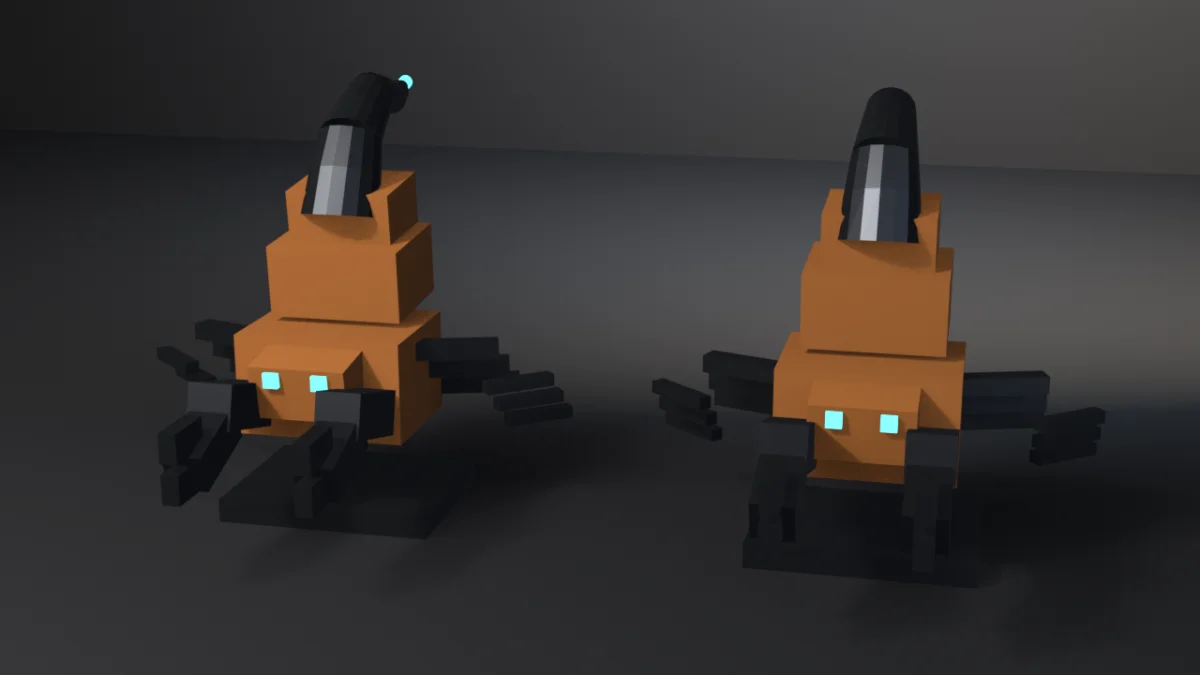
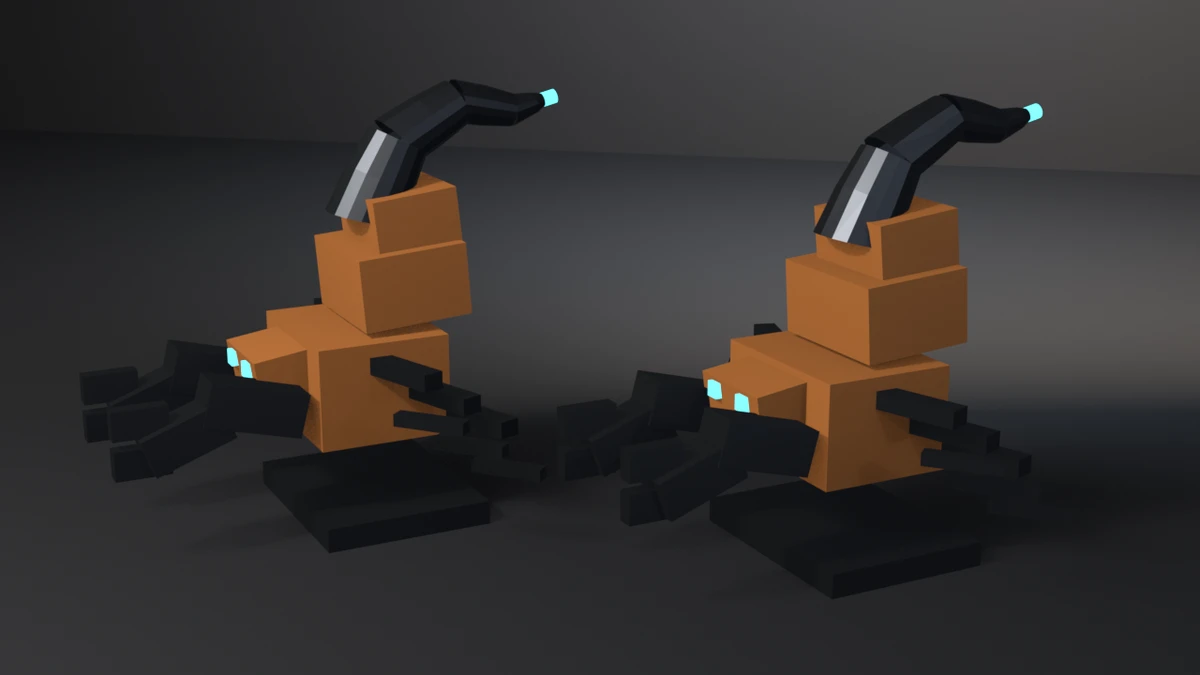
fix(examples): turn the gltf-skin-roundtrip scorpions three-quarters
The tail curls in each rig's Y-Z plane, and the camera looked at both
scorpions head-on, so the curl was seen end-on and the tail stood straight
up like a chimney: a boxy robot, not a scorpion. Both armatures are now
yawed -50 deg about their own origins, composed into the world matrix
because the glTF importer leaves its armature in quaternion mode, and set
1.0 m either side of centre. Render path only. Exit codes unchanged on
4.5.11, 5.1.2 and 5.2.1 (default 0, --no-skins 5, --output 0) and every
measured line matches the baseline. Shared gallery index rides here.

diff --git a/docs/gallery/gltf-skin-roundtrip/index.html b/docs/gallery/gltf-skin-roundtrip/index.html
@@ -284,7 +284,7 @@
 <ul><li><strong>The skeleton survives.</strong> <code>skins[0].joints</code> names every bone; the re-imported armature carries the same 7 bones, the same parent chain, and rest matrices within 2.4e-07 — the +Y-up conversion applies to bone nodes exactly as it does to meshes (their translations convert, no rotation is written).</li><li><strong>The weights survive.</strong> Every primitive carries JOINTS_0/WEIGHTS_0; per-vertex weights on disk sum to 1 (err 3.0e-08); the re-imported vertex groups match the authored groups <strong>bit-exactly</strong> (w_err 0.0), compared as straddle-safe position keys, the same protocol as the crate example.</li><li><strong>The deformation survives.</strong> Posed identically, the re-imported rig&#x27;s evaluated mesh matches the original&#x27;s within 4.8e-07 — linear blend skinning through the file format. The comparison is by rest-position key, never sorted multisets: the exporter welds duplicate loops (32 here), so cardinalities differ and a naive sorted zip mispairs vertices (a phantom 2.29 &quot;deviation&quot; measured and fixed during authoring).</li><li><strong>The mesh must be parented to the armature.</strong> The exporter warns &quot;Armature must be the parent of skinned mesh&quot; and picks an armature by name otherwise — with two rigs in the file it can bind the wrong one.</li></ul>
 <p><strong>What each check catches on failure:</strong> exporting with <code>export_skins=False</code> (exit 5 — no skin on disk), stripping the weights (exit 4 — no vertex groups), and posing the re-imported rig differently (exit 19 — deformation deviates 0.90).</p>
 <p><strong>Version witness:</strong> the skins pipeline is stable between Blender 4.5 LTS and 5.1 — the exporter/importer RNA is byte-identical (probed with <code>gltf-export-roundtrip</code>), and every measured value matches to the digit on 4.5.11 and 5.1.2.</p>
-<p>The render stages the authored scorpion beside the actual re-imported one — same curl, same glowing stinger — proof the skin rode the format through.</p>
+<p>The render stages the authored scorpion beside the actual re-imported one — same curl, same glowing stinger — proof the skin rode the format through. Both rigs are turned three-quarters to the camera. The tail curls in the rig&#x27;s own Y-Z plane, so a head-on view saw the curl end-on: the tail stood straight up behind the body like a chimney. The yaw is composed into each armature&#x27;s world matrix, because the glTF importer leaves its armature in quaternion mode, where <code>rotation_euler</code> does nothing.</p>
 <h2>Run</h2>
 <pre><code># Cheap correctness check (no render) — the CI check:
 blender --background --python gltf_skin_roundtrip.py --
@@ -360,6 +360,10 @@ SUM_TOL = <span class="n">3e-4</span>                  <span class="c"># disk we
 REST_TOL = <span class="n">1e-5</span>                 <span class="c"># rest-matrix round-trip tolerance</span>
 LBS_TOL = <span class="n">5e-4</span>
 KEY_DIGITS = <span class="n">4</span>
+<span class="c"># render staging only (not part of the check): each rig&#x27;s X offset and its</span>
+<span class="c"># yaw, so the tail&#x27;s curl (in the rig&#x27;s Y-Z plane) is seen in profile</span>
+STILL_X = <span class="n">1.0</span>
+STILL_YAW = -<span class="n">50.0</span>
 
 EXPORT_KWARGS = dict(
     export_format=<span class="s">&#x27;GLTF_SEPARATE&#x27;</span>,
@@ -897,9 +901,20 @@ EXPORT_KWARGS = dict(
             authored.data.materials.append(m)
         assign_weights(authored, part_of2)
         authored_arm = build_rig(authored)
-        <span class="c"># move the ARMATURES; the skinned meshes follow as children</span>
-        authored_arm.location.x = -<span class="n">1.1</span>
-        roundtrip_arm.location.x = <span class="n">1.1</span>
+        <span class="c"># move the ARMATURES; the skinned meshes follow as children. Each is</span>
+        <span class="c"># turned three-quarters to the camera: seen head-on, the tail stood</span>
+        <span class="c"># straight up behind the body like a chimney and the scorpion read</span>
+        <span class="c"># as a boxy robot; side-on, the arch of the tail over the back and</span>
+        <span class="c"># the legs down its flanks carry the read.</span>
+        <span class="c"># The yaw is composed into the world matrix about the rig&#x27;s own</span>
+        <span class="c"># origin: the glTF importer leaves its armature in quaternion mode,</span>
+        <span class="c"># where rotation_euler does nothing.</span>
+        <span class="k">for</span> arm, x <span class="k">in</span> ((authored_arm, -STILL_X), (roundtrip_arm, STILL_X)):
+            arm.location.x = x
+            bpy.context.view_layer.update()
+            at = mathutils.Matrix.Translation(arm.matrix_world.translation)
+            arm.matrix_world = (at @ mathutils.Matrix.Rotation(
+                math.radians(STILL_YAW), <span class="n">4</span>, <span class="s">&#x27;Z&#x27;</span>) @ at.inverted() @ arm.matrix_world)
         <span class="k">if</span> <span class="k">not</span> render_still(authored, os.path.abspath(args.output), args.engine):
             print(<span class="s">&quot;ERROR: render produced no file&quot;</span>, file=sys.stderr)
             <span class="k">return</span> <span class="n">20</span>

diff --git a/docs/gallery/index.html b/docs/gallery/index.html
@@ -1036,12 +1036,12 @@
       </article>
       <article class="card" data-tags="mesh export showcase">
         <a class="card-media" href="wheelbarrow/" tabindex="-1" aria-hidden="true">
-          <img src="assets/wheelbarrow-hero.webp" alt="A wooden wheelbarrow whose tray walls are stacked boards held by iron straps, with a spoked front wheel and two long handles." loading="lazy" decoding="async" />
+          <img src="assets/wheelbarrow-hero.webp" alt="A wooden wheelbarrow with a flared tray of stacked boards held by iron straps, its front raked out over a spoked wheel, and two long shafts running from the handles under the tray to the axle." loading="lazy" decoding="async" />
         </a>
         <div class="card-body">
           <h2><a href="wheelbarrow/">wheelbarrow</a></h2>
           <p class="teaches">A procedural wooden wheelbarrow through UVs, bake, LOD, collider, and Unity glTF, asserting recomputed budgets rather than an API contract.</p>
-          <p class="witnesses"><span class="tag">witnesses</span> Recomputed: 2536 tris, two materials with 1157 wood and 190 metal faces, UVs in 0..1 with zero AABB overlap, outer AABB 1.556×0.630×0.572 m, zmin 0, hygiene 0, wall-floor seat 12 mm, spoke clearance 40 mm, two boards per side and front wall with 2 mm seams, LOD ratios in band (5.2 COLLAPSE leaner on LOD2), convex collider 90 tris, non-empty glTF. --skip-decimate exits 9 on LOD1; --stray-vert exits 15 on hygiene; --lift-z / --short-legs exit 16 on grounded; --fat-spokes / --float-walls / --wide-seams exit 17 on joint fit; --pipe-rim exits 18 on tread aspect.</p>
+          <p class="witnesses"><span class="tag">witnesses</span> Recomputed: 2440 tris, two materials with 1085 wood and 214 metal faces, UVs in 0..1 with zero AABB overlap, outer AABB 1.563x0.594x0.577 m, zmin 0, hygiene 0, both shafts one timber from grip to axle, tray flared 15 deg and raked 30 deg, wall-floor seat 8 mm, spoke clearance 52 mm, two boards per side and front wall with 2 mm seams measured in the wall&#x27;s plane, LOD ratios in band (5.2 COLLAPSE leaner on LOD2), convex collider 80 tris, non-empty glTF. --skip-decimate exits 9 on LOD1; --stray-vert exits 15 on hygiene; --lift-z / --short-legs exit 16 on grounded; --fat-spokes / --float-walls / --wide-seams exit 17 on joint fit; --pipe-rim exits 18 on tread aspect; --split-shafts exits 20 on shaft runs; --box-tray exits 21 on tray flare.</p>
           <a class="card-link" href="wheelbarrow/">View showcase piece<span class="sr-only"> wheelbarrow</span> <span aria-hidden="true">&rarr;</span></a>
         </div>
       </article>

diff --git a/examples/gltf-skin-roundtrip/gltf_skin_roundtrip.py b/examples/gltf-skin-roundtrip/gltf_skin_roundtrip.py
@@ -52,6 +52,10 @@ SUM_TOL = 3e-4                  # disk weight-sum tolerance
 REST_TOL = 1e-5                 # rest-matrix round-trip tolerance
 LBS_TOL = 5e-4
 KEY_DIGITS = 4
+# render staging only (not part of the check): each rig's X offset and its
+# yaw, so the tail's curl (in the rig's Y-Z plane) is seen in profile
+STILL_X = 1.0
+STILL_YAW = -50.0
 
 EXPORT_KWARGS = dict(
     export_format='GLTF_SEPARATE',
@@ -589,9 +593,20 @@ def main():
             authored.data.materials.append(m)
         assign_weights(authored, part_of2)
         authored_arm = build_rig(authored)
-        # move the ARMATURES; the skinned meshes follow as children
-        authored_arm.location.x = -1.1
-        roundtrip_arm.location.x = 1.1
+        # move the ARMATURES; the skinned meshes follow as children. Each is
+        # turned three-quarters to the camera: seen head-on, the tail stood
+        # straight up behind the body like a chimney and the scorpion read
+        # as a boxy robot; side-on, the arch of the tail over the back and
+        # the legs down its flanks carry the read.
+        # The yaw is composed into the world matrix about the rig's own
+        # origin: the glTF importer leaves its armature in quaternion mode,
+        # where rotation_euler does nothing.
+        for arm, x in ((authored_arm, -STILL_X), (roundtrip_arm, STILL_X)):
+            arm.location.x = x
+            bpy.context.view_layer.update()
+            at = mathutils.Matrix.Translation(arm.matrix_world.translation)
+            arm.matrix_world = (at @ mathutils.Matrix.Rotation(
+                math.radians(STILL_YAW), 4, 'Z') @ at.inverted() @ arm.matrix_world)
         if not render_still(authored, os.path.abspath(args.output), args.engine):
             print("ERROR: render produced no file", file=sys.stderr)
             return 20

diff --git a/examples/gltf-skin-roundtrip/README.md b/examples/gltf-skin-roundtrip/README.md
@@ -46,6 +46,11 @@ deviates 0.90).
 
 The render stages the authored scorpion beside the actual re-imported one —
 same curl, same glowing stinger — proof the skin rode the format through.
+Both rigs are turned three-quarters to the camera. The tail curls in the
+rig's own Y-Z plane, so a head-on view saw the curl end-on: the tail stood
+straight up behind the body like a chimney. The yaw is composed into each
+armature's world matrix, because the glTF importer leaves its armature in
+quaternion mode, where `rotation_euler` does nothing.
 
 ## Run
 
